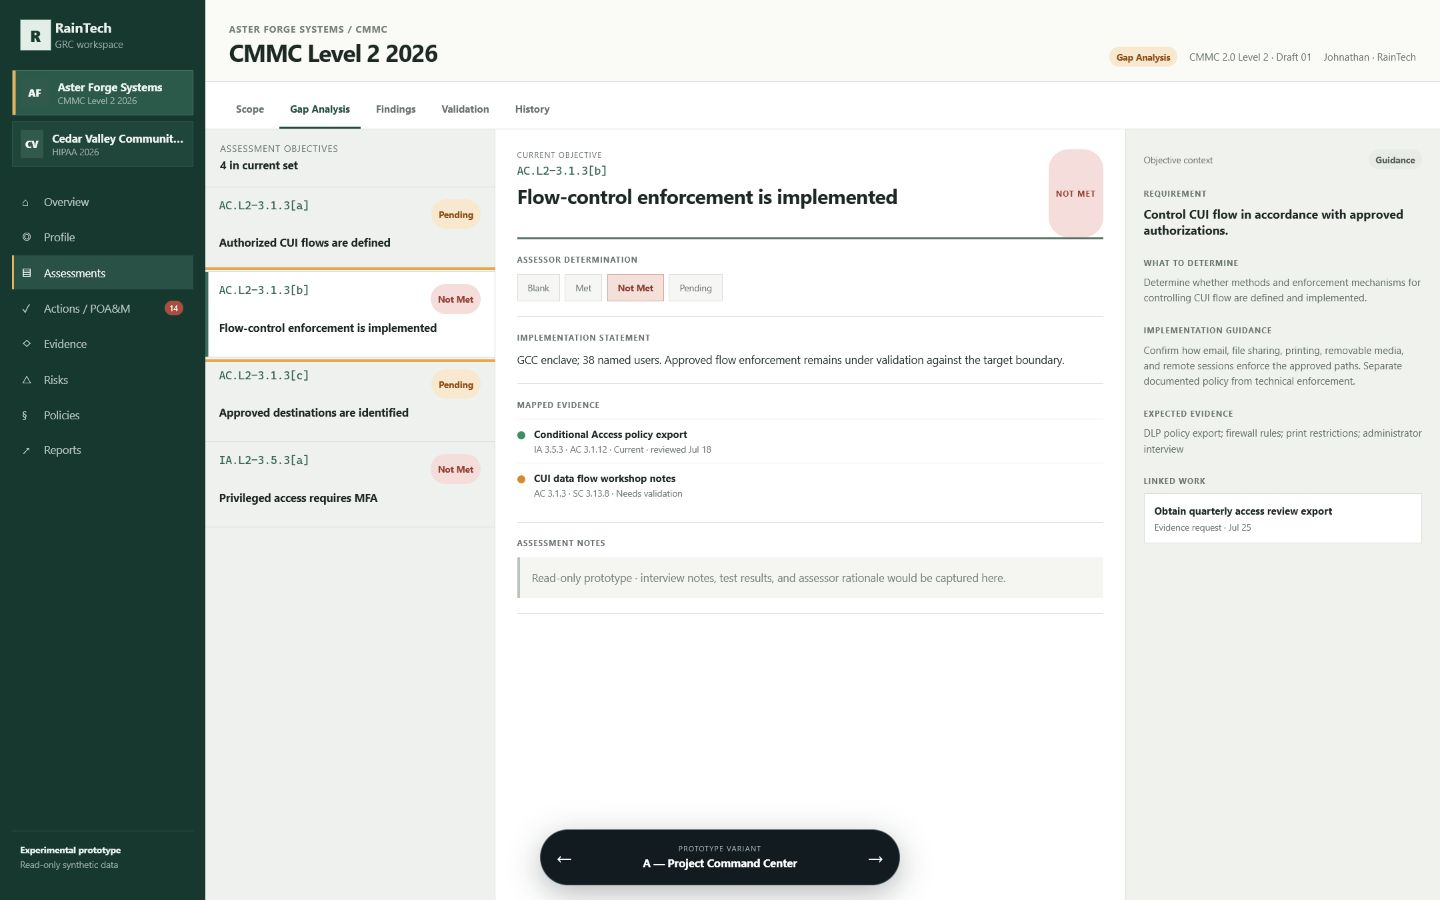
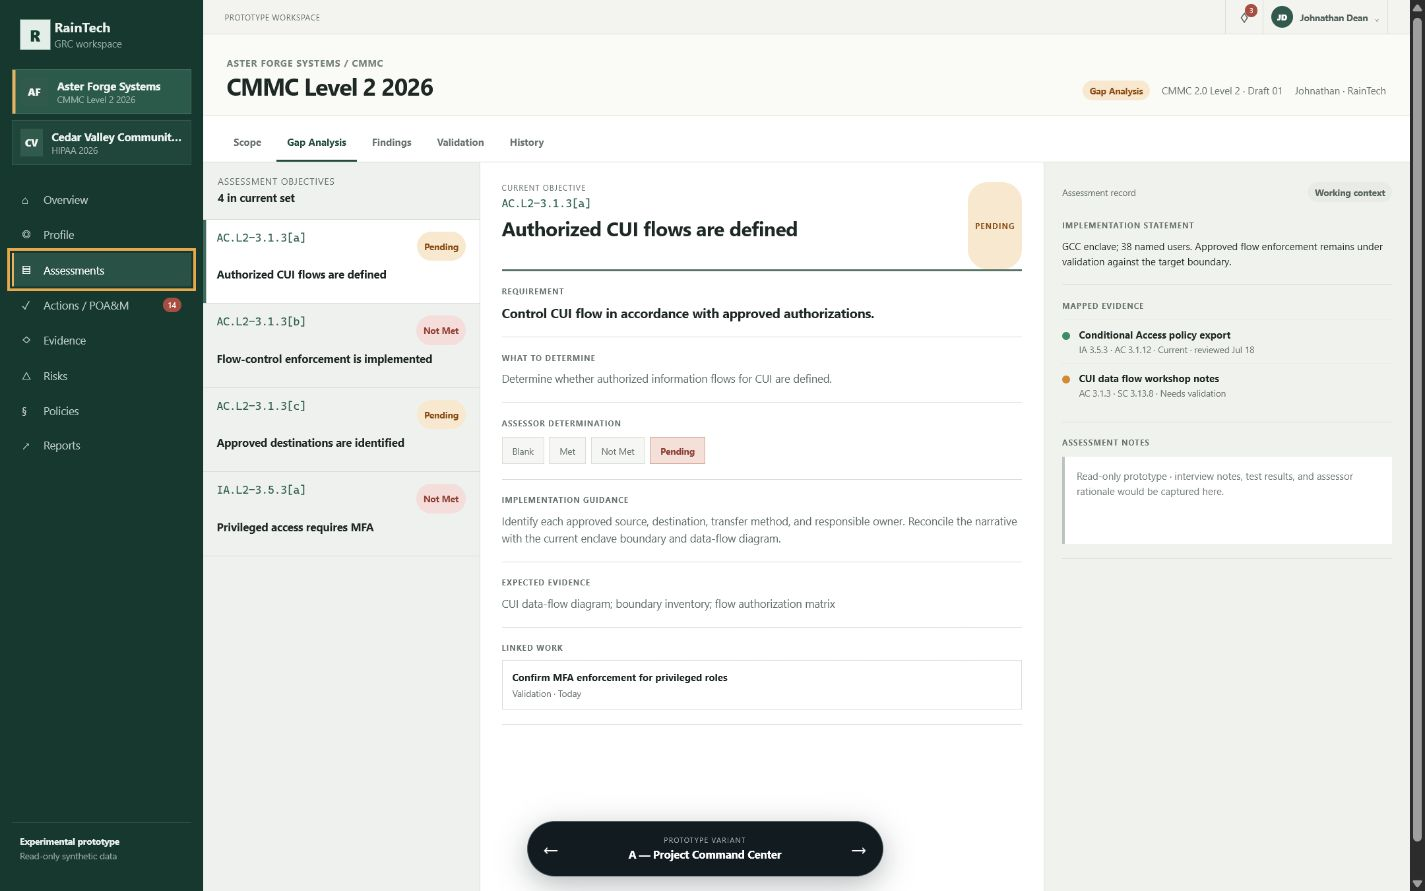
Refine overview queue and assessment workspace

diff --git a/prototypes/v1-project-workspace/src/main.tsx b/prototypes/v1-project-workspace/src/main.tsx
@@ -47,6 +47,9 @@ const projects: Record<Framework, Project> = {
       { kind: "Evidence request", title: "Obtain quarterly access review export", context: "AC.L2-3.1.5 · waiting on IT lead", due: "Jul 25", tone: "warn" },
       { kind: "POA&M", title: "Disable unmanaged USB storage", context: "MP.L2-3.8.7 · remediation owner assigned", due: "Jul 29", tone: "warn" },
       { kind: "Recurring review", title: "Review CUI enclave boundary inventory", context: "Scope profile · annual review", due: "Aug 02", tone: "neutral" },
+      { kind: "Evidence validation", title: "Validate CUI data flow workshop notes", context: "AC.L2-3.1.3 · confirm approved paths", due: "Aug 04", tone: "warn" },
+      { kind: "Risk treatment", title: "Reduce removable media residual risk", context: "RISK-007 · Operations owner", due: "Aug 06", tone: "bad" },
+      { kind: "Report blocker", title: "Resolve unreviewed CMMC requirements", context: "Gap & Score Report · 43 requirements remain", due: "Aug 08", tone: "neutral" },
     ],
     requirements: [
       { id: "AC.L2-3.1.3", title: "Control CUI flow in accordance with authorizations", status: "Pending", evidence: "3 mapped", finding: "1 open" },
@@ -100,6 +103,9 @@ const projects: Record<Framework, Project> = {
       { kind: "Scope check", title: "Validate outreach tablet ePHI access", context: "SRA scope · one system unresolved", due: "Jul 24", tone: "bad" },
       { kind: "Evidence request", title: "Obtain BAA register from procurement", context: "Privacy · shared evidence request", due: "Jul 28", tone: "warn" },
       { kind: "Recurring review", title: "Review breach response contact tree", context: "Breach Notification · semiannual", due: "Aug 05", tone: "neutral" },
+      { kind: "Evidence validation", title: "Confirm outreach tablet encryption state", context: "SRA evidence · Clinical Operations", due: "Aug 06", tone: "warn" },
+      { kind: "Risk treatment", title: "Reduce offline ePHI exposure", context: "RISK-003 · residual risk remains High", due: "Aug 08", tone: "bad" },
+      { kind: "Report blocker", title: "Resolve incomplete SRA system scope", context: "HIPAA Security Risk Analysis · 1 system remains", due: "Aug 11", tone: "neutral" },
     ],
     requirements: [
       { id: "164.308(a)(1)(ii)(A)", title: "Conduct an accurate and thorough risk analysis", status: "Pending", evidence: "5 mapped", finding: "SRA incomplete" },
@@ -334,7 +340,7 @@ function VariantA({ project, framework, onProjectChange }: { project: Project; f
                 <div><span>All actionable project work</span><h2>Unified queue</h2></div>
                 <div className="queue-summary"><b>{project.actions.length} open</b><span>Sorted by priority and due date</span></div>
               </div>
-              <ActionRows project={project} />
+              <ActionRows project={project} limit={project.actions.length} />
             </div>
           </>
         ) : (
@@ -358,11 +364,34 @@ function VariantA({ project, framework, onProjectChange }: { project: Project; f
                   <div><span>{project.framework === "CMMC" ? "Current objective" : "Current assessment check"}</span><code>{objective.id}</code><h2>{objective.title}</h2></div>
                   <Pill tone={objective.status === "Met" ? "good" : objective.status === "Not Met" ? "bad" : "warn"}>{objective.status}</Pill>
                 </div>
+                <div className="objective-context-block">
+                  <span className="inspector-label">Requirement</span>
+                  <h3>{objective.requirement}</h3>
+                </div>
+                <div className="objective-context-block">
+                  <span className="inspector-label">What to determine</span>
+                  <p>{objective.check}</p>
+                </div>
                 <div className="assessment-field">
                   <span>Assessor determination</span>
                   <div className="status-options">{["Blank", "Met", "Not Met", "Pending"].map(status => <button className={status === objective.status ? "active" : ""} key={status}>{status}</button>)}</div>
                 </div>
-                <div className="assessment-field">
+                <div className="objective-context-block">
+                  <span className="inspector-label">Implementation guidance</span>
+                  <p>{objective.guidance}</p>
+                </div>
+                <div className="objective-context-block">
+                  <span className="inspector-label">Expected evidence</span>
+                  <p>{objective.evidence}</p>
+                </div>
+                <div className="objective-context-block">
+                  <span className="inspector-label">Linked work</span>
+                  <div className="inspector-linked"><b>{project.actions[selectedObjective % project.actions.length].title}</b><small>{project.actions[selectedObjective % project.actions.length].kind} · {project.actions[selectedObjective % project.actions.length].due}</small></div>
+                </div>
+              </section>
+              <aside className="assessment-record">
+                <div className="inspector-head"><span>Assessment record</span><Pill tone="neutral">Working context</Pill></div>
+                <div className="assessment-field first">
                   <span>Implementation statement</span>
                   <p>{project.framework === "CMMC" ? project.profileFacts[0].current + ". Approved flow enforcement remains under validation against the target boundary." : project.profileFacts[0].current + ". Scope cannot be concluded until the unresolved system is included or excluded with rationale."}</p>
                 </div>
@@ -374,19 +403,6 @@ function VariantA({ project, framework, onProjectChange }: { project: Project; f
                   <span>Assessment notes</span>
                   <p className="placeholder-note">Read-only prototype · interview notes, test results, and assessor rationale would be captured here.</p>
                 </div>
-              </section>
-              <aside className="objective-inspector">
-                <div className="inspector-head"><span>Objective context</span><Pill tone="neutral">Guidance</Pill></div>
-                <span className="inspector-label">Requirement</span>
-                <h3>{objective.requirement}</h3>
-                <span className="inspector-label">What to determine</span>
-                <p>{objective.check}</p>
-                <span className="inspector-label">Implementation guidance</span>
-                <p>{objective.guidance}</p>
-                <span className="inspector-label">Expected evidence</span>
-                <p>{objective.evidence}</p>
-                <span className="inspector-label">Linked work</span>
-                <div className="inspector-linked"><b>{project.actions[selectedObjective % project.actions.length].title}</b><small>{project.actions[selectedObjective % project.actions.length].kind} · {project.actions[selectedObjective % project.actions.length].due}</small></div>
               </aside>
             </div>
           </div>

diff --git a/prototypes/v1-project-workspace/src/styles.css b/prototypes/v1-project-workspace/src/styles.css
@@ -135,7 +135,7 @@ i.good { background: #3c8d63; } i.warn { background: #d48a33; } i.bad { backgrou
 .assessment-view-tabs { min-height: 47px; display: flex; align-items: end; gap: 4px; padding: 0 20px; background: #fff; border-bottom: 1px solid var(--line); }
 .assessment-view-tabs button { padding: 14px 11px 11px; border: 0; border-bottom: 2px solid transparent; background: transparent; color: var(--muted); font-size: 10px; font-weight: 700; cursor: pointer; }
 .assessment-view-tabs button.active { color: var(--forest); border-bottom-color: var(--forest); }
-.objective-workspace { display: grid; grid-template-columns: 290px minmax(480px, 1fr) 315px; min-height: calc(100vh - 129px); max-width: 1440px; margin: auto; }
+.objective-workspace { display: grid; grid-template-columns: 280px minmax(470px, 1fr) 370px; min-height: calc(100vh - 129px); max-width: 1440px; margin: auto; }
 .objective-nav { background: #eef1ed; border-right: 1px solid var(--line); }
 .objective-nav-head { min-height: 58px; padding: 13px 15px; display: flex; flex-direction: column; gap: 3px; border-bottom: 1px solid var(--line); }
 .objective-nav-head span { font-size: 9px; color: var(--muted); text-transform: uppercase; letter-spacing: .08em; }
@@ -150,6 +150,10 @@ i.good { background: #3c8d63; } i.warn { background: #d48a33; } i.bad { backgrou
 .objective-heading > div { display: flex; flex-direction: column; gap: 5px; }
 .objective-heading span { font-size: 8px; color: var(--muted); text-transform: uppercase; letter-spacing: .08em; }
 .objective-heading h2 { font-size: 20px; }
+.objective-context-block { padding: 15px 0; border-bottom: 1px solid var(--line); }
+.objective-context-block .inspector-label { display: block; margin-bottom: 7px; }
+.objective-context-block h3 { font-size: 13px; line-height: 1.45; }
+.objective-context-block p { font-size: 11px; line-height: 1.6; color: #5f6c67; }
 .assessment-field { padding: 15px 0; border-bottom: 1px solid var(--line); }
 .assessment-field > span { display: block; margin-bottom: 9px; }
 .assessment-field > p { font-size: 11px; line-height: 1.55; }
@@ -162,10 +166,10 @@ i.good { background: #3c8d63; } i.warn { background: #d48a33; } i.bad { backgrou
 .mapped-evidence b { font-size: 10px; }
 .mapped-evidence small { font-size: 9px; }
 .placeholder-note { color: #77817c; background: #f5f6f2; padding: 12px; border-left: 3px solid #bac4be; }
-.objective-inspector { padding: 20px 18px 100px; background: #f0f2ee; border-left: 1px solid var(--line); }
-.objective-inspector .inspector-label { display: block; margin: 19px 0 7px; }
-.objective-inspector h3 { font-size: 12px; }
-.objective-inspector p { font-size: 10px; line-height: 1.55; color: #5f6c67; }
+.assessment-record { padding: 20px 18px 100px; background: #f0f2ee; border-left: 1px solid var(--line); }
+.assessment-record .assessment-field.first { padding-top: 0; }
+.assessment-record .assessment-field > p { font-size: 10px; }
+.assessment-record .placeholder-note { min-height: 88px; background: #fff; }
 .inspector-linked { padding: 10px; background: #fff; border: 1px solid var(--line); display: flex; flex-direction: column; gap: 3px; }
 .inspector-linked b { font-size: 10px; line-height: 1.35; }
 .inspector-linked small { font-size: 9px; }
@@ -296,7 +300,7 @@ i.good { background: #3c8d63; } i.warn { background: #d48a33; } i.bad { backgrou
 .prototype-switcher b { font-size: 11px; }
 
 @media (max-width: 1300px) {
-  .objective-workspace { grid-template-columns: 250px minmax(450px, 1fr) 280px; }
+  .objective-workspace { grid-template-columns: 240px minmax(400px, 1fr) 330px; }
 }
 
 @media (max-width: 1250px) {

diff --git a/docs/prototypes/v1-ui-prototype-review.md b/docs/prototypes/v1-ui-prototype-review.md
@@ -58,9 +58,13 @@ Initial direction selected by Johnathan:
 - **Global utility context:** add a compact top bar for notifications and the
   signed-in user without competing with project identity.
 - **Assessment interaction:** selecting `Assessments` opens an objective
-  navigator, the current objective's determination and evidence workspace, and
-  a contextual inspector with requirement text, what to determine,
-  implementation guidance, expected evidence, and linked work.
+  navigator, a central decision surface with requirement text, what to
+  determine, implementation guidance, expected evidence, linked work, and the
+  determination state, plus a right-side working record containing the
+  implementation statement, mapped evidence, and assessment notes.
+- **Overview visualization:** do not add a separate chart section. The existing
+  metrics and progress treatment provide sufficient orientation; the unified
+  queue expands with realistic evidence, risk, and report-blocker work instead.
 - **Rejected tradeoff from B:** do not make the entire workspace phase-first;
   the full phase shell consumes vertical space and can overstate sequentiality.
 - **Rejected tradeoff from C:** do not make the cross-project queue the default

diff --git a/PROJECT_STATUS.md b/PROJECT_STATUS.md
@@ -40,6 +40,9 @@ GitHub issue #20: Prototype V1 project workspace UI variants.
 - Unified actionable work now follows the Overview directly, with redundant
   evidence/risk/report summaries removed and compact notification/user context
   added above the project identity.
+- Overview remains chart-free and uses the available space for a fuller unified
+  queue; Assessments now centers decision guidance and places implementation,
+  evidence, and notes in the right-side working record.
 
 ## In progress
 
